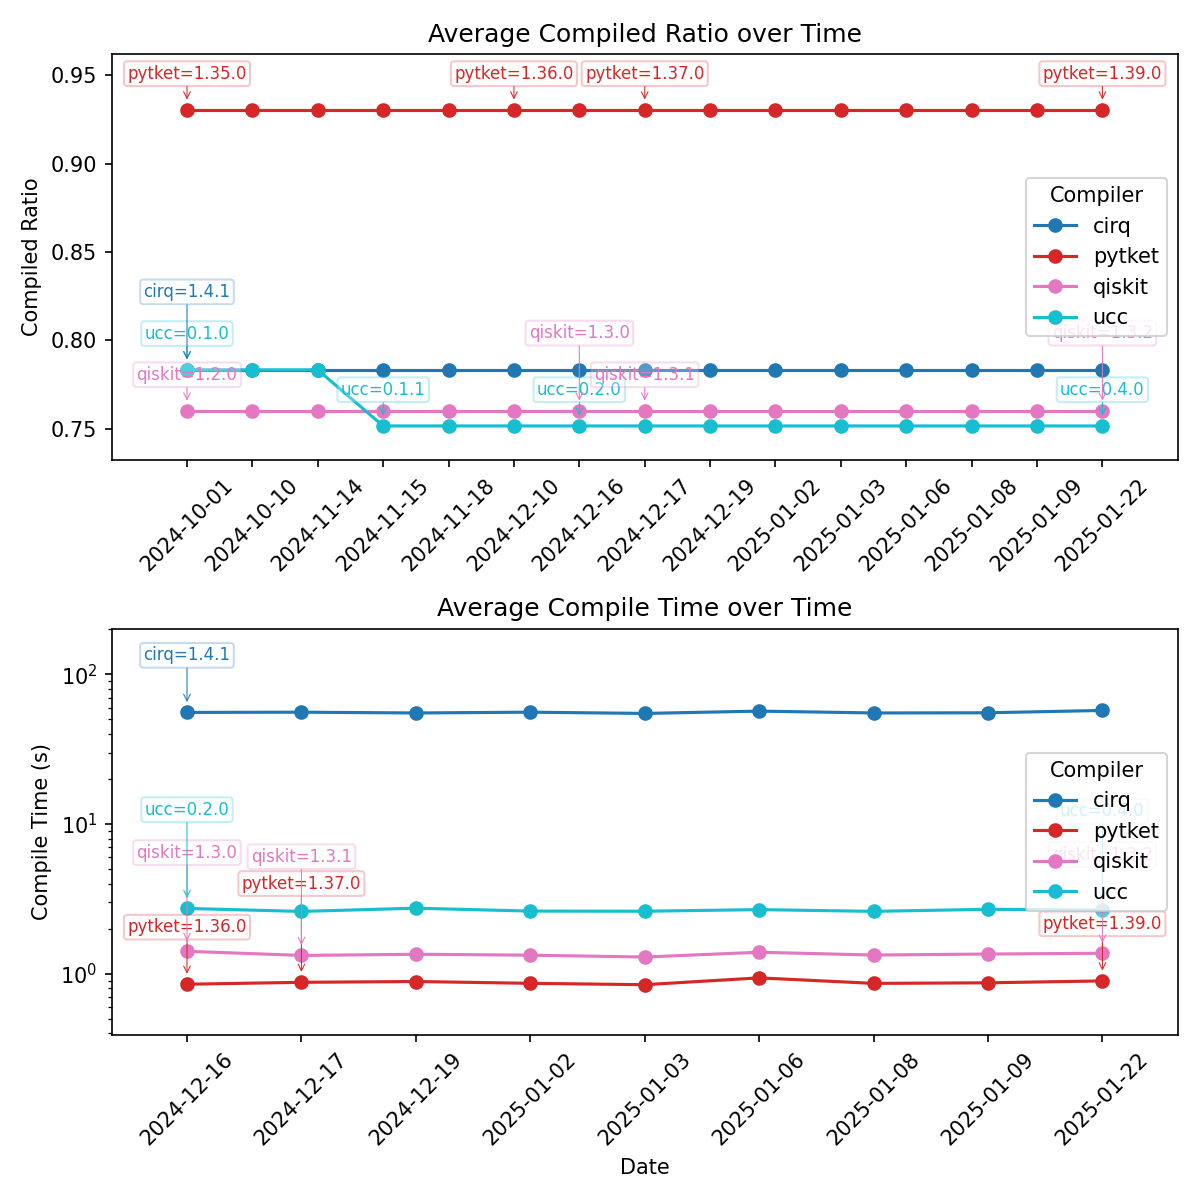
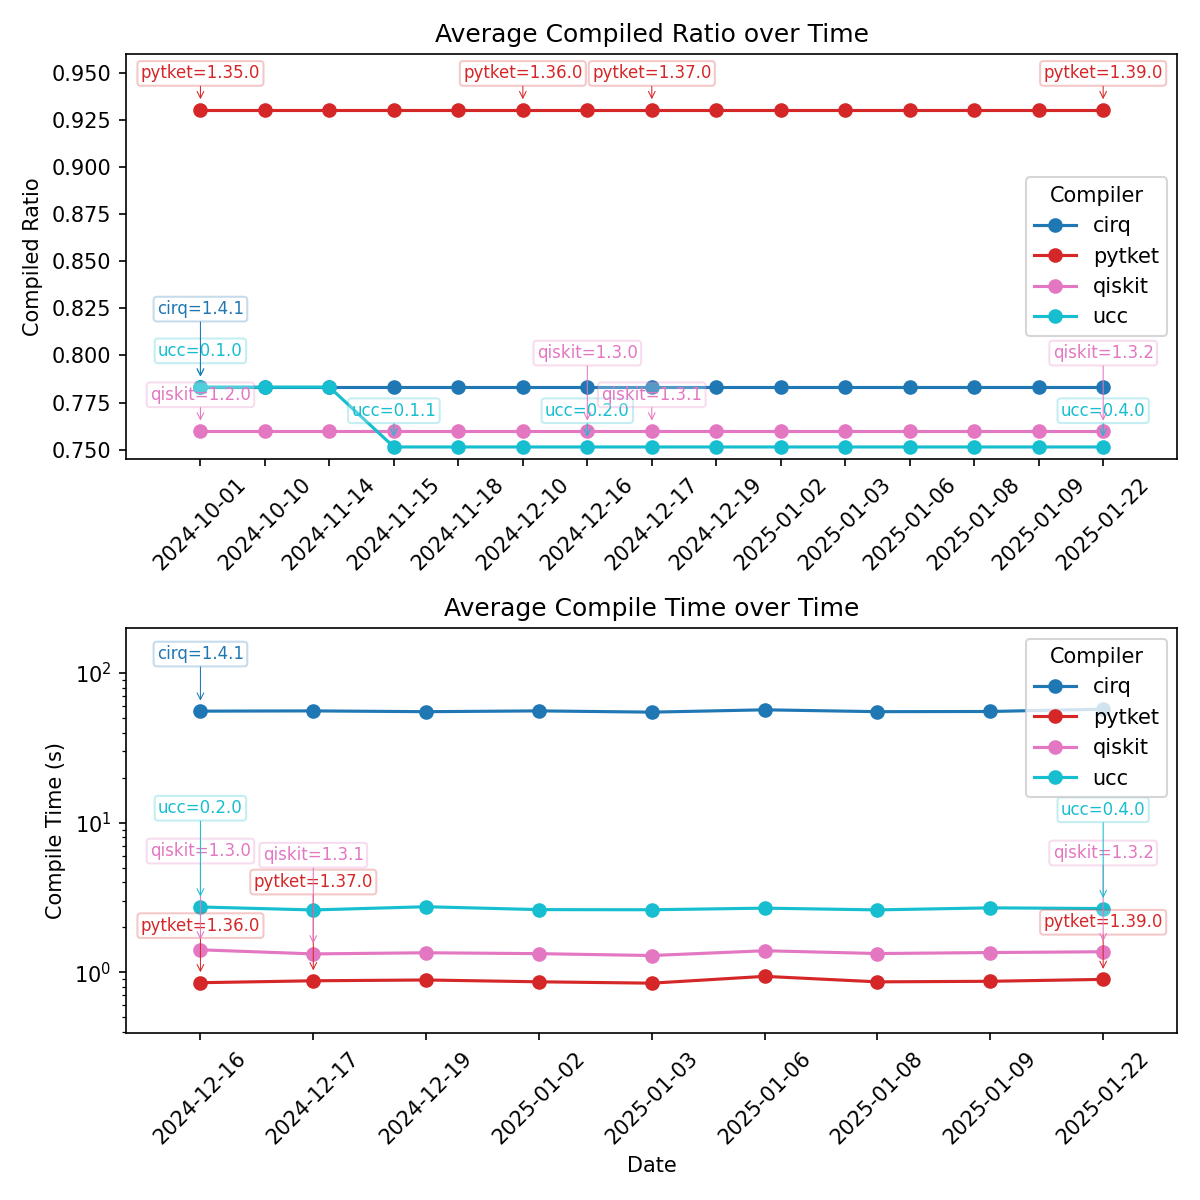
Plot adjustments (#183)
* Minor formatting tweaks

* Adjust axes

diff --git a/benchmarks/scripts/plot_avg_benchmarks_over_time.py b/benchmarks/scripts/plot_avg_benchmarks_over_time.py
@@ -99,7 +99,7 @@ for date in avg_compiled_ratio["date"].unique():
                 increment=2,  # Vertical adjustment step
                 max_attempts=10,
             )
-            plt.pause(0.1)
+            # plt.pause(0.1)
             # Update the last seen version for this compiler
             last_version_seen[compiler] = current_version
     previous_bboxes = [] # Reset previous bboxes for next date            
@@ -108,9 +108,9 @@ adjust_axes_to_fit_labels(ax[0], x_scale=1.01, y_scale=1.05)
 
 ax[0].set_title("Average Compiled Ratio over Time")
 ax[0].set_ylabel("Compiled Ratio")
-# ax[0].legend(title="Compiler", loc='center left')
+ax[0].set_ylim(0.745, 0.96)
 # Expand axes to be slightly larger than data range
-ax[0].legend(title="Compiler", loc="center right")
+ax[0].legend(title="Compiler")
 
 
 #### Plot Compile time
@@ -169,7 +169,7 @@ ax[1].set_title("Average Compile Time over Time")
 ax[1].set_ylabel("Compile Time (s)")
 ax[1].set_xlabel("Date")
 ax[1].set_yscale("log")
-ax[1].legend(title="Compiler", loc="center right")
+ax[1].legend(title="Compiler")
 adjust_axes_to_fit_labels(ax[1], x_scale=1.01, y_scale=1.75, y_log=True)
 
 plt.xticks(rotation=45)
